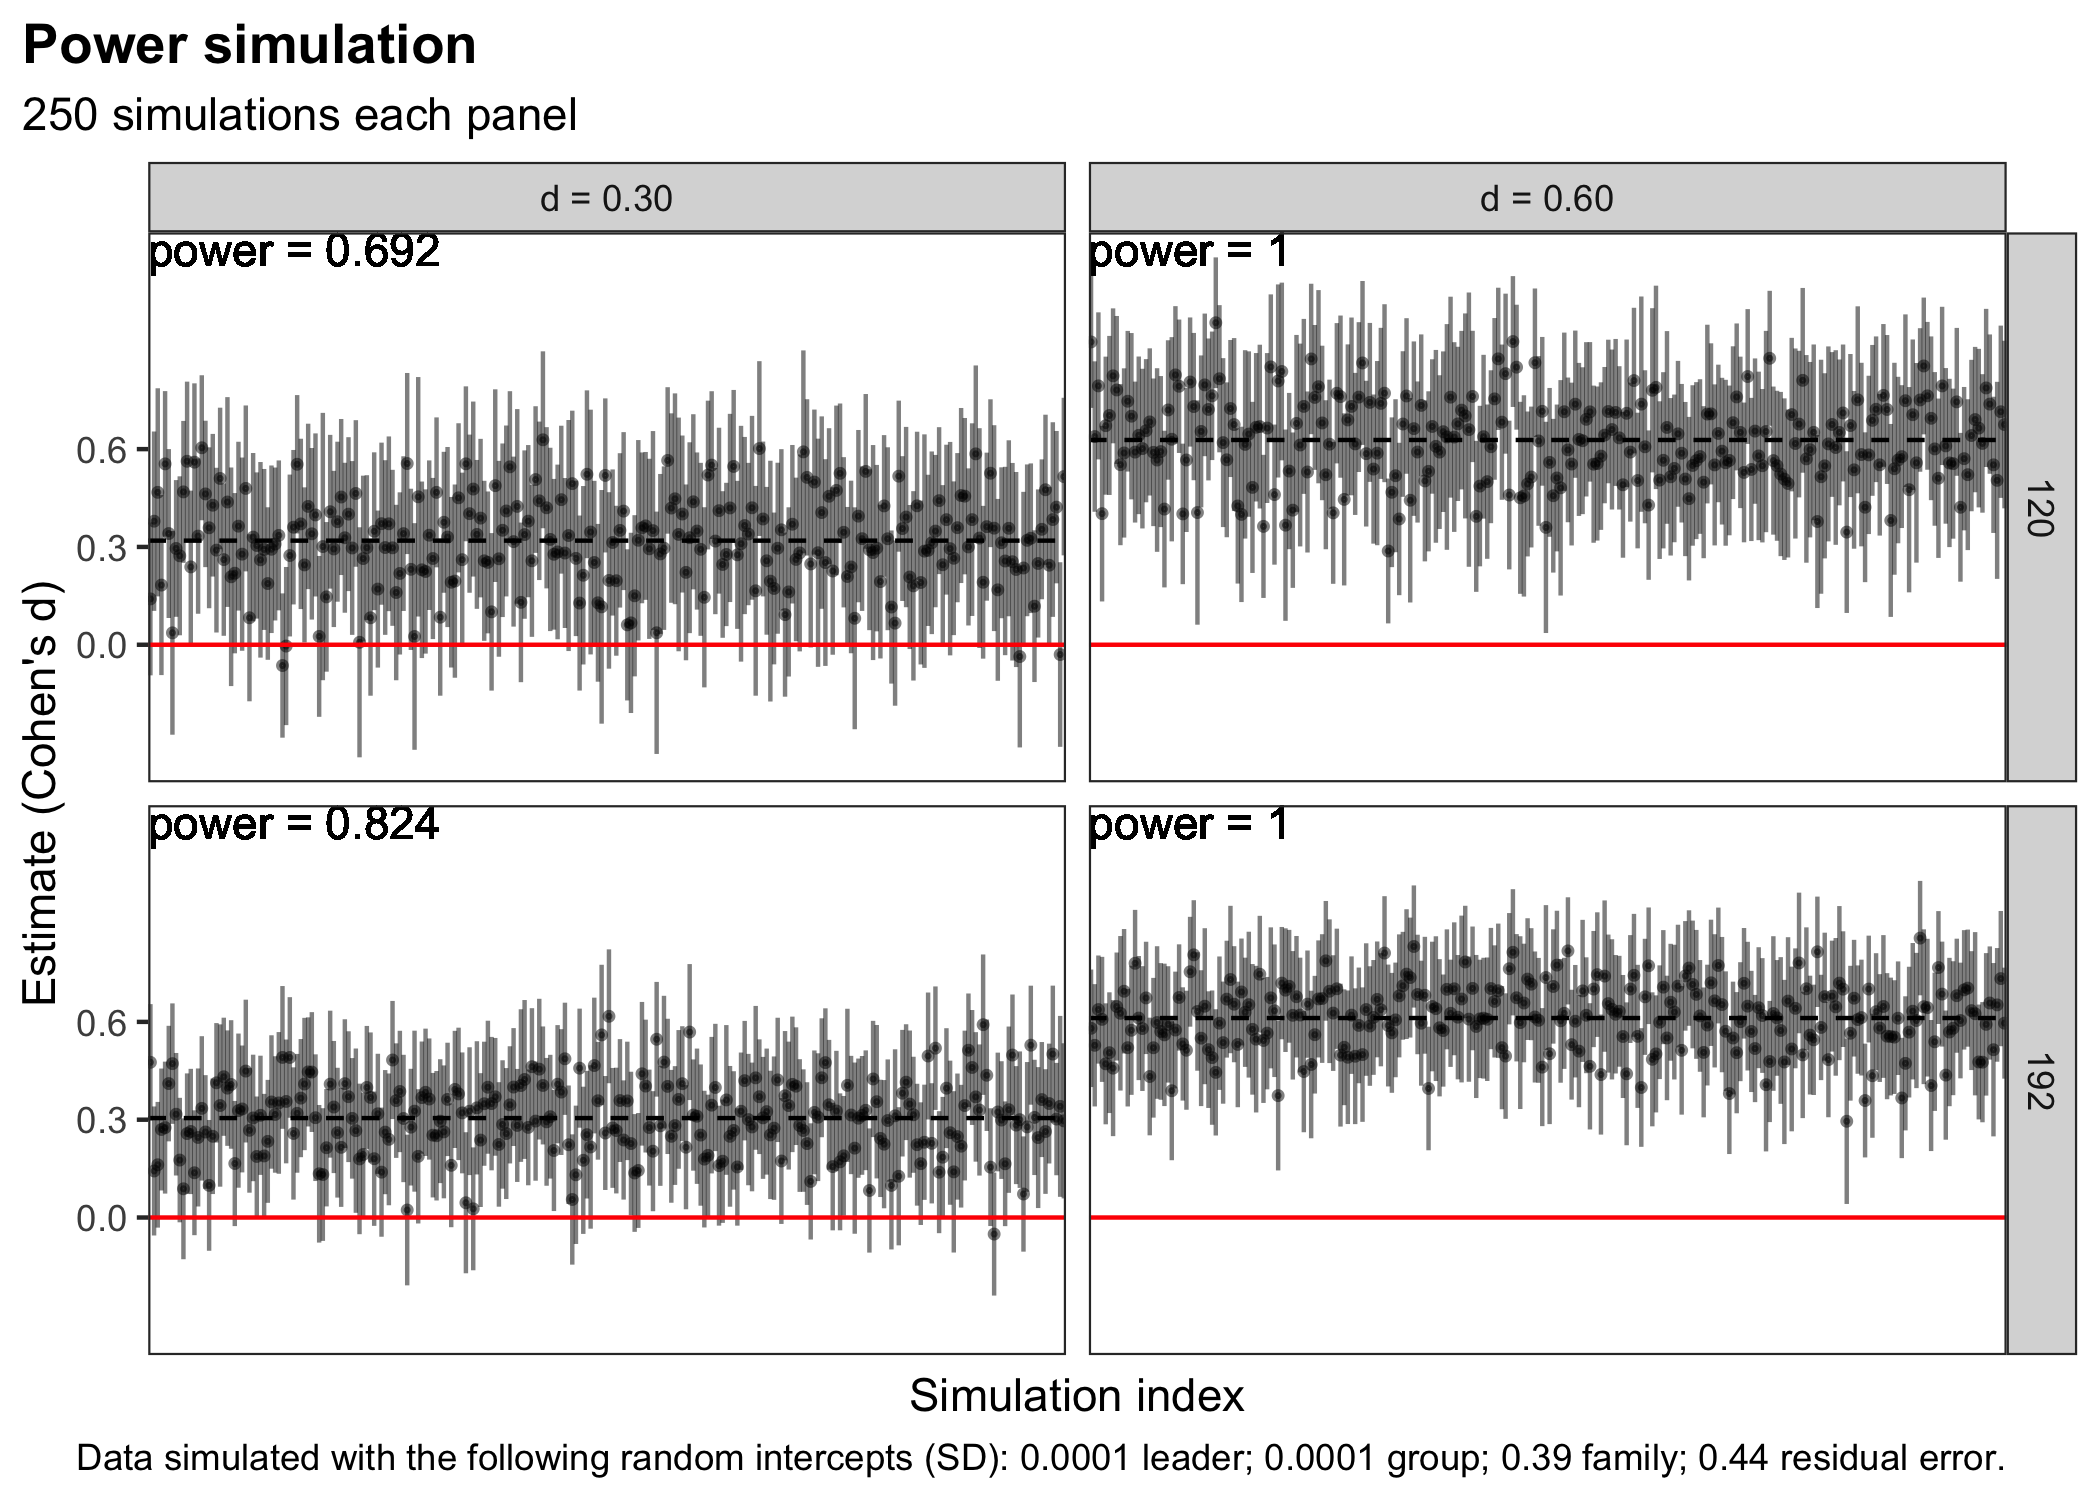
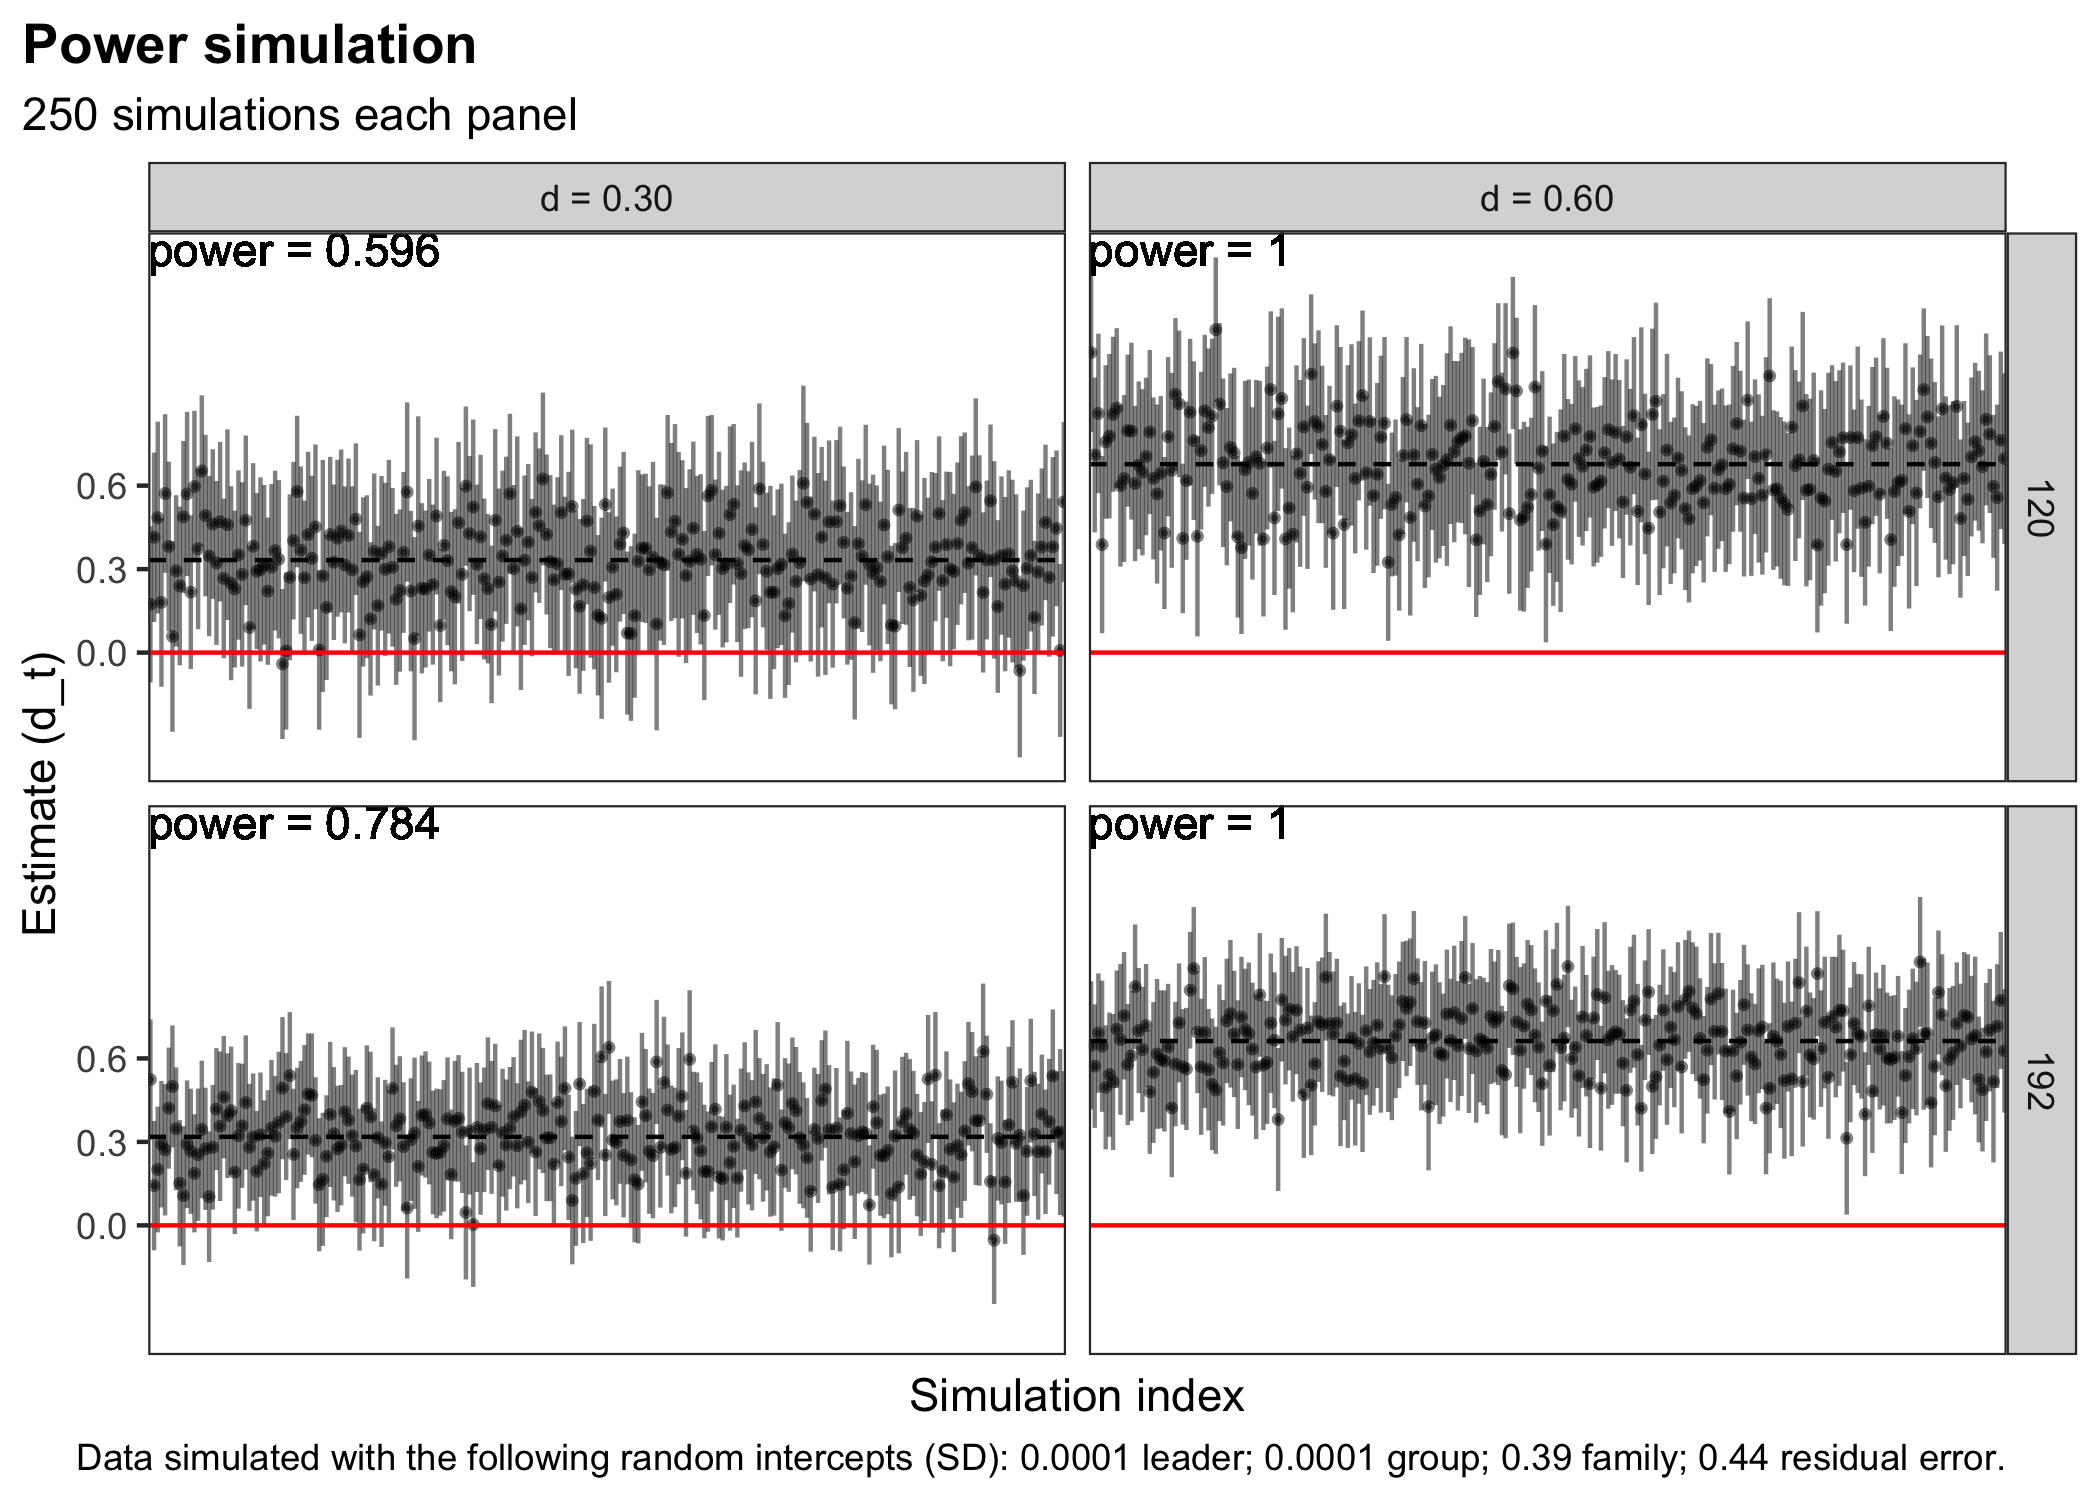
commit before big fix

Changed region(s): [[0.0, 0.184, 0.9595, 0.6747], [0.031, 0.5827, 0.9595, 0.828], [0.1857, 0.1533, 0.2167, 0.184]]

diff --git a/simulate.md b/simulate.md
@@ -81,10 +81,15 @@ There was no random effect of group observed in the small pilot:
     SD (Intercept: group)                      |        0.00 | [0.00, 0.37]
     SD (Residual)                              |        0.44 | [0.34, 0.52]
 
-These are the values we’ll use in the simulation. With a SD of \~0.63, a
-Cohen’s d value of 0.30 would be `0.63*0.3 = 0.189`
+``` r
+  denom <- sqrt((0.44^2)+(0^2)+(0.39^2)+(0.28^2))
+```
 
-      b1 <- 0.189        # treatment effect on raw metric
+These are the values we’ll use in the simulation. With the square root
+of the sum of all the variance components equal to 0.65, a Cohen’s
+d-like value of 0.30 would be `0.65*0.3 = 0.195`
+
+      b1 <- 0.195        # treatment effect on raw metric
       b0 <- 3.5          # grand mean
       u0l_sd <- 0.0001   # by-leader random intercept SD
       u0g_sd <- 0.0001   # by-group random intercept SD
@@ -109,13 +114,54 @@ that simulated the analysis of partially nested RCTs. We take the
 approach of coding the partially nested clusters as ‘singleton’ clusters
 and fit a partially nested homoscedastic mixed effects model.
 
+John ran the following model in Stata:
+
+    mixed dv treatment || family: || group:treatment, nocons || leader:treatment, nocons reml dfmethod(sat) iterate(100) stddev
+
+The equivalent syntax for lmer is:
+
+    lmer(dv ~ treatment + (0 + treatment | leader/group) + (1 | family))
+
+    Random effects:
+    Groups       Name        Std.Dev.
+    group:leader treatment   0.0000 
+     leader      treatment   0.0000 
+     family      (Intercept) 0.3981 
+     Residual                0.4066 
+    Number of obs: 562, groups:  group:leader, 289; leader, 279; family, 160
+    Fixed Effects:
+    (Intercept)    treatment 
+         3.5299       0.1242 
+
+John provided the following notes:
+
+> The standard deviation of the group random intercept and leader random
+> intercept is estimated to be zero, which is in line with what you
+> simulated. These random intercepts are only defined in the treatment
+> arm (which you can tell from the output since it says “treatment”
+> under Name.
+
+> Technically, this is parameterized as a random slope, but we are
+> suppressing the separate random intercept. Normally, we would think of
+> a slope as being defined on a continuous value (e.g., continuous
+> time). Since treatment is a binary variable and we suppress the random
+> intercept, it is essentially a random intercept in the treatment arm
+> only.
+
+> The standard deviation of the family random intercept is 0.398, which
+> is close to what you simulated based on. This random intercept is
+> defined in both treatment arms, since we expect there to be clustering
+> within family regardless of treatment arm.
+
+> The standard deviation of the individual level variation is 0.41.
+
 ## Function
 
 ``` r
 #' Simulate data
 #' @param seed
-#' @param action simulate data only or data + fit
-#' @param method lme4 or brms
+#' @param action simulate "data only" or "fit" (sim and fit)
+#' @param method "lmer" or "brm"
 #' @param n_leader number of group leaders (treatment)
 #' @param grp_per_lead number of groups per leader
 #' @param fam_per_gro_lo number of families per group, low end
@@ -133,8 +179,8 @@ and fit a partially nested homoscedastic mixed effects model.
 #' @param attrition_post_ctr post attrition in control arm
 
   simfit <- function(seed,
-                     action = c("data only", "fit"),
-                     method = c("lme4", "brms"),
+                     action = "data only",
+                     method = "lmer",
                      n_leader, 
                      grp_per_lead,
                      fam_per_gro_lo,
@@ -341,11 +387,6 @@ and fit a partially nested homoscedastic mixed effects model.
   if (action == "fit"){
     
   set.seed(seed)
-    
-  # pooled sd
-    sd <- df %>% 
-      summarize(sd = sd(dv, na.rm = TRUE)) %>%
-      pull(sd)
   
   # number of families
     families <- df %>% 
@@ -354,23 +395,38 @@ and fit a partially nested homoscedastic mixed effects model.
       pull()
     
   # fit by method
-    if (method == "lme4") {
+    if (method == "lmer") {
       
-      # fit <- lmer(dv ~ treatment + age + female + caregiver +
-      #               (1 | leader/group/family),
-      #             data = df)
+      fit <- lmer(dv ~ treatment + age + female + caregiver +
+                    (0 + treatment | leader/group) + 
+                    (1 | family), 
+                  data=df)
+  
+      res <- broom.mixed::tidy(fit, conf.int = TRUE) %>%
+        mutate(type = "raw")
       
-      fit <- lmer(dv ~ treatment + age + female + caregiver + 
-                    (0 + treatment | leader/group/family),
-                  data = df)
+      sqrt_sum_var <- res %>%
+        filter(effect=="ran_pars") %>%
+        mutate(estimate = estimate^2) %>%
+        summarize(sqrt_sum_var = sqrt(sum(estimate))) %>%
+        pull(sqrt_sum_var)
+      
+      res <- res %>%
+        filter(effect=="fixed") %>%
+        filter(term != "(Intercept)") %>%
+        mutate(estimate = estimate/sqrt_sum_var,
+               conf.low = conf.low/sqrt_sum_var,
+               conf.high = conf.high/sqrt_sum_var,
+               type = "d_t") %>%
+        bind_rows(res) %>%
+        mutate(families = families)
   
-      res <- broom.mixed::tidy(fit, conf.int = TRUE) 
-  
-    } else {
+    } else if (method == "brm") {
       
       fit <- brm(dv ~ 0 + Intercept + 
                    treatment + age + female + caregiver + 
-                   (0 + treatment | leader/group/family),
+                   (0 + treatment | leader/group) + 
+                   (1 | family),
          # prior = c(prior(normal(0, 2), class = b),
          #           prior(student_t(3, 1, 1), class = sigma)),
                  data = df, 
@@ -378,15 +434,32 @@ and fit a partially nested homoscedastic mixed effects model.
                  cores = parallel::detectCores(),
                  backend = "cmdstanr")
       
-      res <- tidy_plus_plus(fit)
+      res <- tidy_plus_plus(fit, quiet = TRUE) %>%
+        mutate(type = "raw")
+    
+      res_d_t <- fit %>%
+        posterior_samples(pars = c("^b_", "sd_", "sigma")) %>%
+        mutate(across(c(starts_with("sd_"), sigma), ~ . ^2)) %>%
+        mutate(sqrt_sum_var = sqrt(rowSums(select(., 
+                                                  c(starts_with("sd_"),
+                                                    sigma))))) %>%
+        mutate(across(c(starts_with("b_")), ~ . / sqrt_sum_var)) %>%
+        summarise_draws() %>% 
+        filter(str_detect(variable, "b_")) %>%
+        mutate(variable = gsub("b_", "", variable)) %>%
+        select(variable, mean, q5, q95) %>%
+        rename(term = variable,
+               estimate = mean, 
+               conf.low = q5,
+               conf.high = q95) %>%
+        mutate(type = "d_t") %>%
+        filter(term != "Intercept")
+      
+      res <- res %>%
+        bind_rows(res_d_t) %>%
+        mutate(families = families)
     }
     
-    res <- res %>%
-      mutate(sd = sd) %>%
-      mutate(estimate_d = estimate/sd,
-             conf.low_d = conf.low/sd,
-             conf.high_d = conf.high/sd) %>%
-      mutate(families = families)
   } else {
       return(df)
     }
@@ -400,39 +473,39 @@ and fit a partially nested homoscedastic mixed effects model.
 Example data structure:
 
 ``` r
-  b1 <- 0.189          # treatment effect on raw metric
+  b1 <- 0.195          # treatment effect on raw metric
   b0 <- 3.5            # grand mean
   u0l_sd <- 0.0001     # by-leader random intercept SD
   u0g_sd <- 0.0001     # by-group random intercept SD
   u0f_sd <- 0.39       # by-family random intercept SD       
   #u0m_sd <- 0.28      # by-member random intercept SD
   sigma_sd <- 0.44     # residual (error) SD
-  n_leader <- 4        # number of leaders (treatment)
+  n_leader <- 10        # number of leaders (treatment)
   grp_per_lead <- 2    # groups per leader (treatment)
-  fam_per_gro_lo <- 2; fam_per_gro_hi <- 2  # families per group
-  mem_per_fam_lo <- 2; mem_per_fam_hi <- 2  # members per family
+  fam_per_gro_lo <- 4; fam_per_gro_hi <- 4  # families per group
+  mem_per_fam_lo <- 2; mem_per_fam_hi <- 5  # members per family
 ```
 
-    ## # A tibble: 64 × 10
+    ## # A tibble: 562 × 10
     ##    member family group leader treatment    dv   age female caregiver grandparent
     ##    <chr>  <chr>  <chr> <chr>      <dbl> <dbl> <dbl>  <dbl>     <dbl>       <dbl>
-    ##  1 m01    f01    g01   l1             1  4.08    41      1         1           0
-    ##  2 m02    f01    g01   l1             1  3.94    47      1         1           0
-    ##  3 m03    f02    g01   l1             1  3.83    25      0         1           0
-    ##  4 m04    f02    g01   l1             1  3.58    55      1         1           0
-    ##  5 m05    f03    m05   m05            0  2.96    36      1         1           0
-    ##  6 m06    f03    m06   m06            0  3.91    44      0         1           0
-    ##  7 m07    f04    m07   m07            0  2.72    48      1         1           0
-    ##  8 m08    f04    m08   m08            0  3.92    30      0         1           0
-    ##  9 m09    f05    g03   l1             1  3.71    39      1         1           0
-    ## 10 m10    f05    g03   l1             1  4.48    29      1         1           0
-    ## 11 m11    f06    g03   l1             1  2.49    38      1         1           0
-    ## 12 m12    f06    g03   l1             1  2.82    42      1         1           0
-    ## 13 m13    f07    m13   m13            0  3.03    35      1         1           0
-    ## 14 m14    f07    m14   m14            0  3.26    27      1         1           0
-    ## 15 m15    f08    m15   m15            0  3.72    46      0         1           0
-    ## 16 m16    f08    m16   m16            0  3.34    43      1         1           0
-    ## # … with 48 more rows
+    ##  1 m001   f001   g01   l1             1  4.17    42      0         1           0
+    ##  2 m002   f001   g01   l1             1  3.18    14      1         0           0
+    ##  3 m003   f001   g01   l1             1  3.00     9      0         0           0
+    ##  4 m004   f001   g01   l1             1  4.13    16      1         0           0
+    ##  5 m005   f001   g01   l1             1  3.25    15      1         0           0
+    ##  6 m006   f002   g01   l1             1  3.49    11      0         0           0
+    ##  7 m007   f002   g01   l1             1  3.52    37      0         1           0
+    ##  8 m008   f002   g01   l1             1  2.87     9      0         0           0
+    ##  9 m009   f002   g01   l1             1  3.02    48      1         1           0
+    ## 10 m010   f003   g01   l1             1  3.37    13      0         0           0
+    ## 11 m011   f003   g01   l1             1  3.66    43      0         1           0
+    ## 12 m012   f003   g01   l1             1  3.60    49      0         1           0
+    ## 13 m013   f004   g01   l1             1  3.43    41      0         1           0
+    ## 14 m014   f004   g01   l1             1  3.47    35      1         1           0
+    ## 15 m015   f004   g01   l1             1  3.15    10      0         0           0
+    ## 16 m016   f004   g01   l1             1  3.71    14      0         0           0
+    ## # … with 546 more rows
 
 ## `lme4`
 
@@ -456,7 +529,7 @@ percentage of simulated 95% confidence intervals are above 0.
       mem_per_fam_lo = 2, mem_per_fam_hi = 5,
     # MODEL ----------------------------------
     # effect
-      b1 = c(.189, .378), # cohens d ~ 0.3, 0.6
+      b1 = c(0.195, .39), # cohens d ~ 0.3, 0.6
       b0 = b0,             
       u0l_sd = u0l_sd,   
       u0g_sd = u0g_sd,   
@@ -466,7 +539,7 @@ percentage of simulated 95% confidence intervals are above 0.
   ) %>%
     mutate(seed = 1:nrow(.),
            action = "fit",
-           method = "lme4"
+           method = "lmer"
            ) %>%
     mutate(analysis = pmap(., simfit)) %>%
     unnest(analysis)
@@ -475,28 +548,6 @@ percentage of simulated 95% confidence intervals are above 0.
 Small effects will be difficult to detect with anything less than 600
 families if the pilot data are any guide. With only \~120 families the
 effects would need to be in the 0.60 SD range.
-
-``` r
-  x %>% 
-    filter(term=="treatment") %>%
-    mutate(n_families = paste0(n_obs, " families")) %>%
-    ggplot(aes(x = factor(rep), y = estimate, 
-               ymin = conf.low, ymax = conf.high)) +
-      geom_pointrange(fatten = 1/4, alpha=0.7) +
-      geom_hline(yintercept = b1, linetype="dashed") +
-      geom_hline(yintercept = 0, color = "red") +
-      facet_wrap(~ n_families) +
-      theme_bw() + 
-      theme(plot.title = element_text(face="bold"),
-            plot.title.position = "plot",
-            legend.position = "none") +
-      labs(x = "Simulation index",
-           y = "Estimate (original 1-5 metric)",
-           title = "Power simulation",
-           subtitle = str_wrap("X number of simulations...", 100),
-           caption = str_wrap("Simulations assume...", 120)
-           )
-```
 
 ![](simulate_files/figure-gfm/unnamed-chunk-6-1.png)<!-- -->
 
